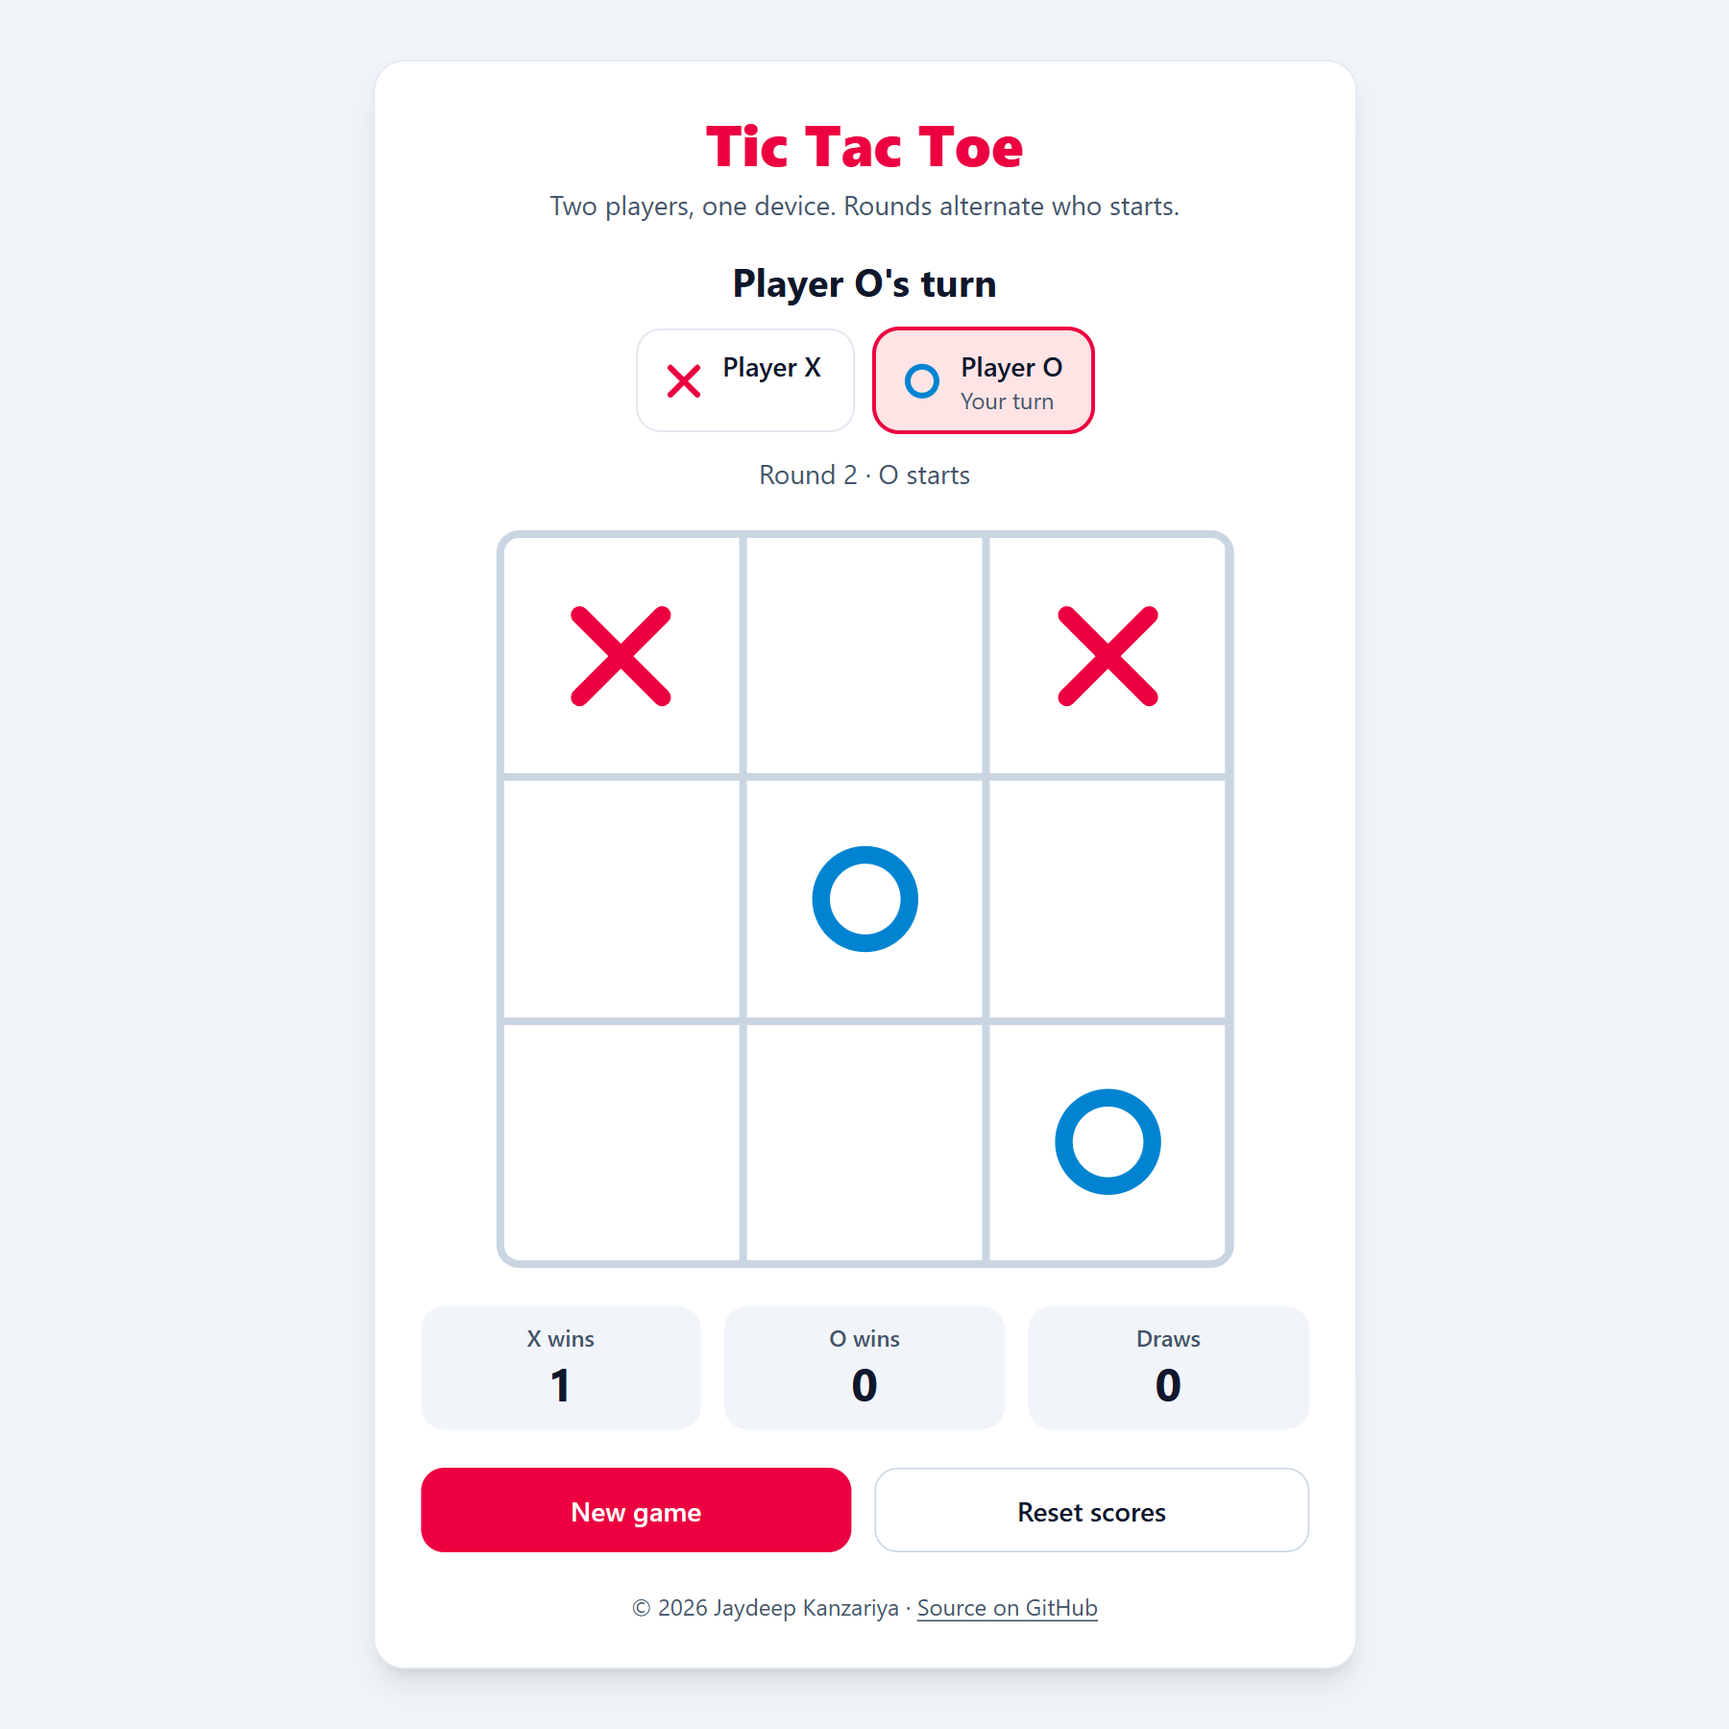
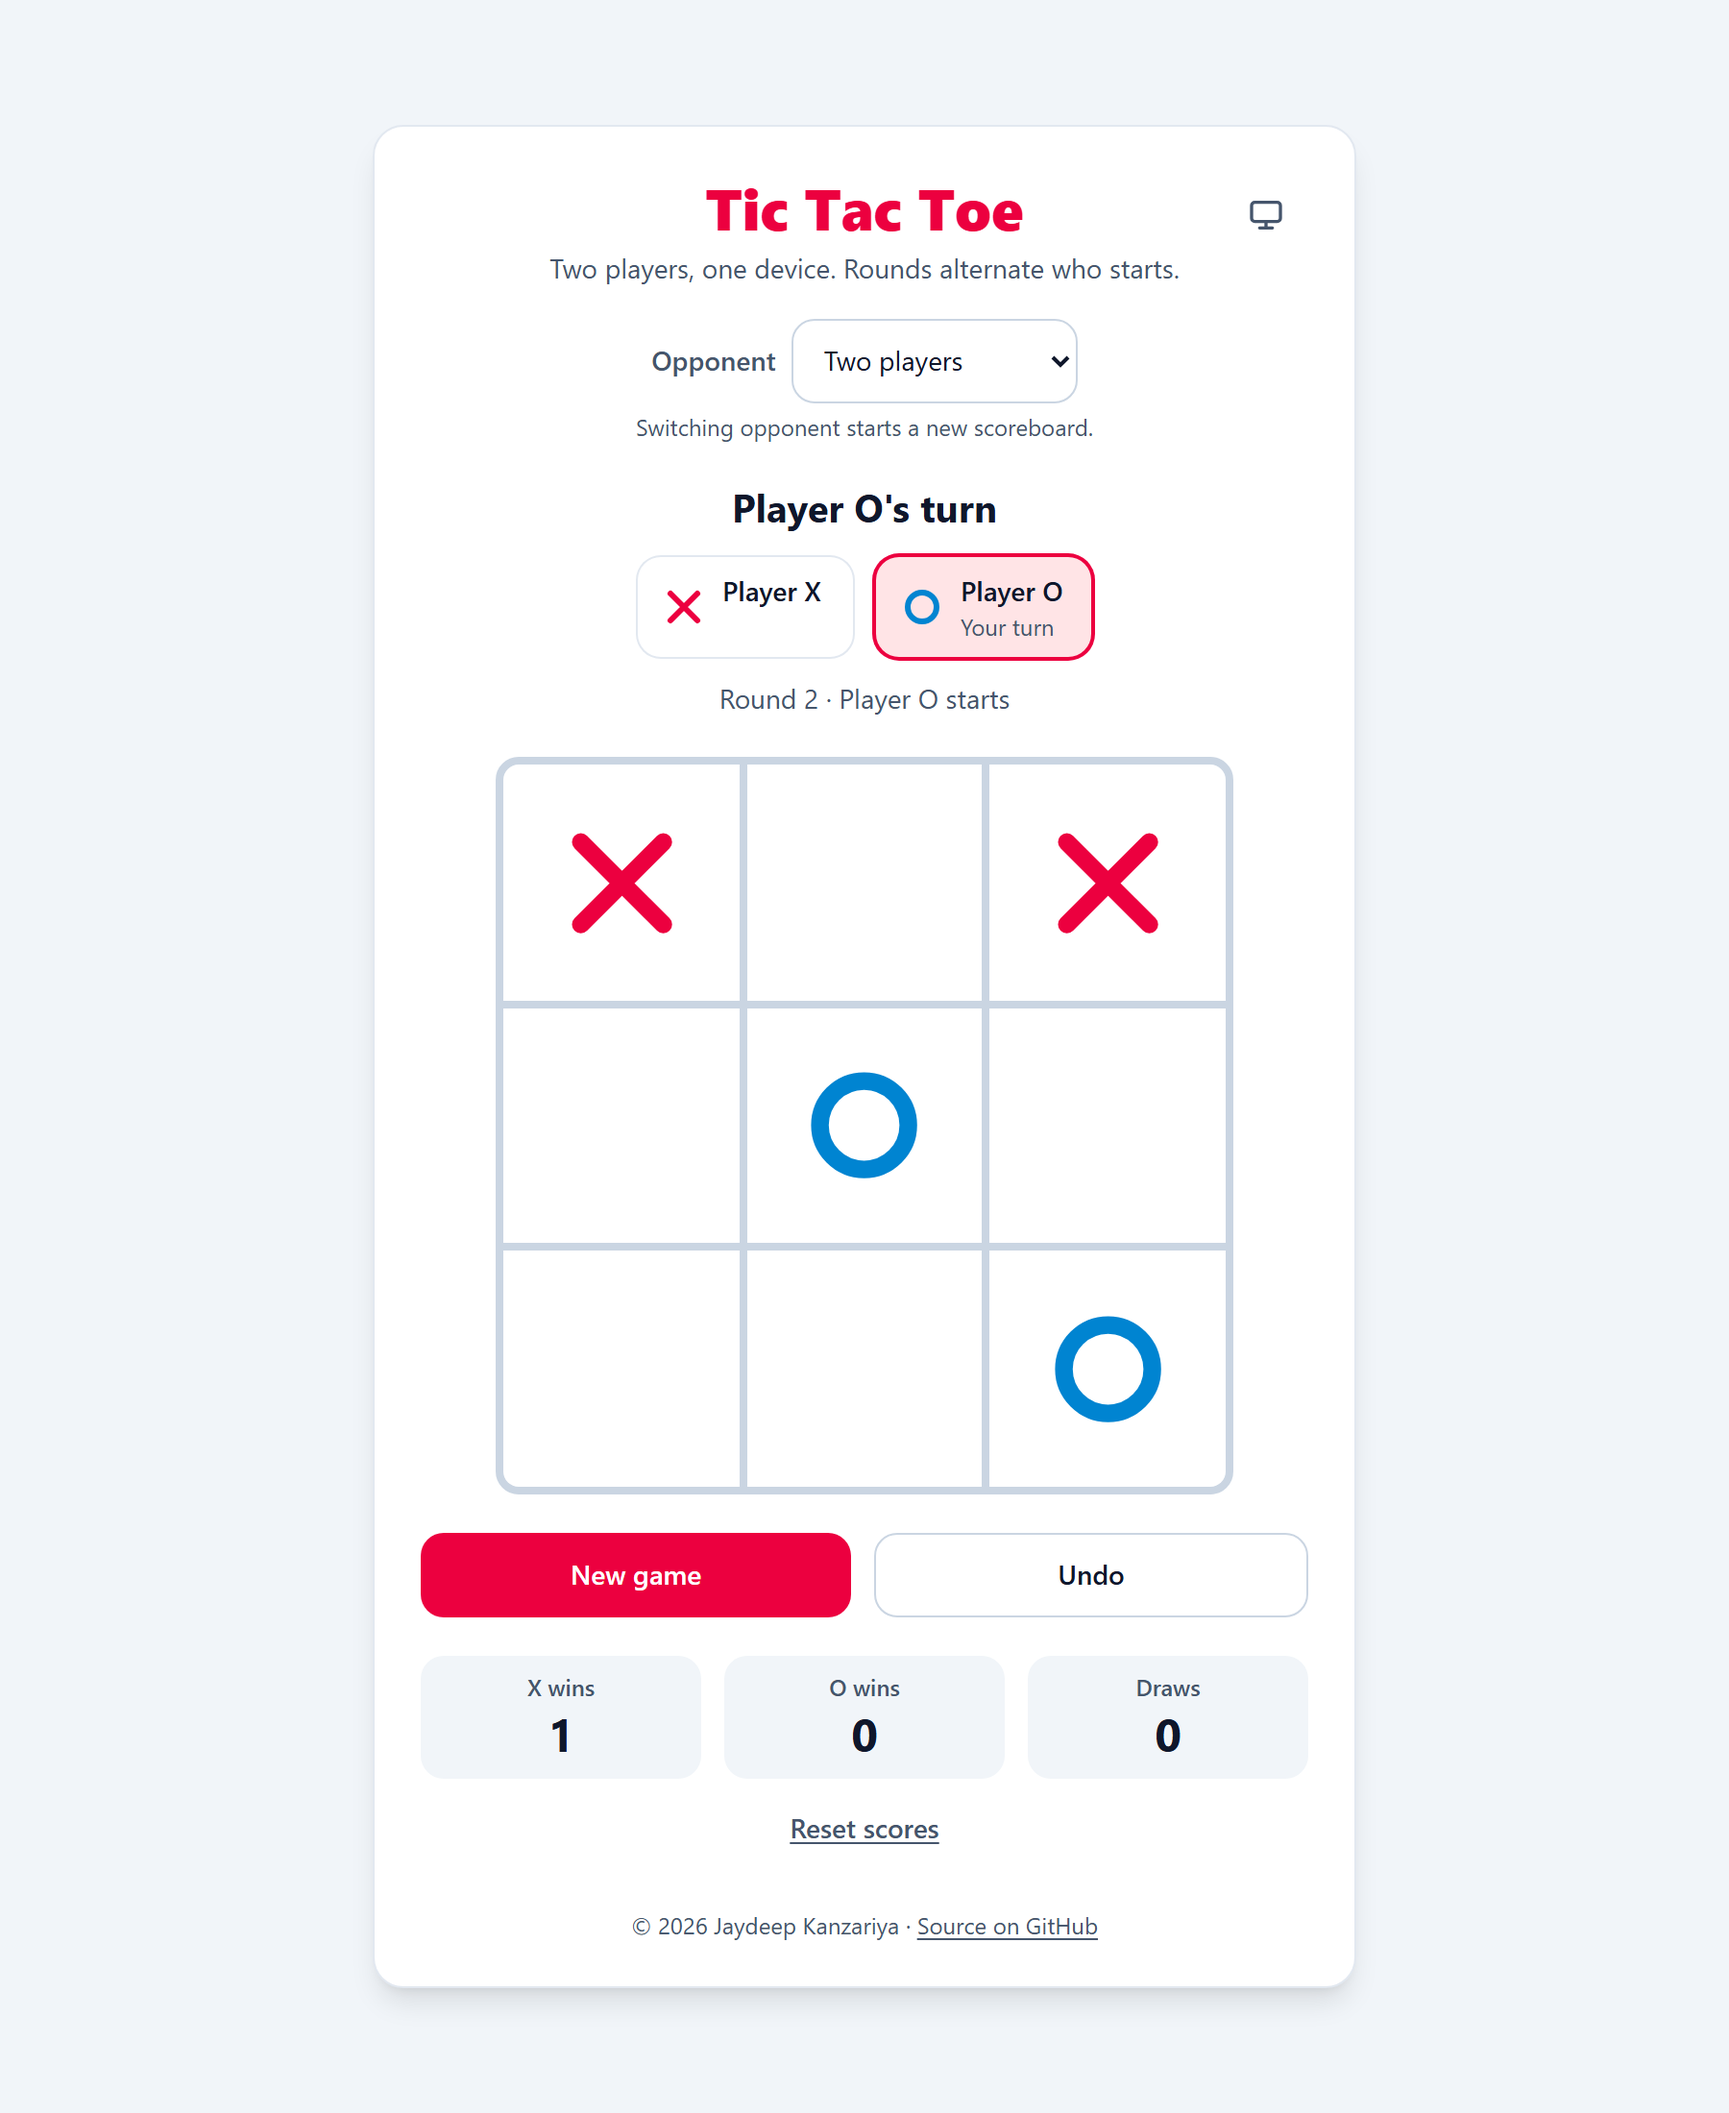
docs: document new features and refresh screenshots

Changed region(s): [[0.28, 0.0622, 0.7156, 0.56], [0.2178, 0.6222, 0.7778, 0.9644], [0.7156, 0.0933, 0.7467, 0.1244]]

diff --git a/README.md b/README.md
@@ -1,31 +1,35 @@
 # Tic Tac Toe
 
-A two-player (same device) Tic Tac Toe game built with React, TypeScript and Tailwind CSS v4. It has a scoreboard, alternating starting players and full keyboard support.
+A Tic Tac Toe game built with React, TypeScript and Tailwind CSS v4. Play a friend on the same device or the computer (easy or unbeatable), with a scoreboard, undo, light and dark themes and full keyboard support.
 
 Live: https://tic-tac-toe-psi-nine-94.vercel.app/
 
 ## Screenshots
-| Light | Dark |
+| Light, mid-game | Dark, X wins on the diagonal |
 |---|---|
 | ![Desktop, light mode, mid-game](docs/game-light.png) | ![Desktop, dark mode, X wins](docs/game-dark.png) |
 
-| Mobile (360 px), light | Mobile (360 px), dark |
+| Mobile (360 px), light, vs computer | Mobile (360 px), dark chosen with the toggle |
 |---|---|
-| ![Mobile, light mode, X wins](docs/mobile-light.png) | ![Mobile, dark mode, mid-game](docs/mobile-dark.png) |
+| ![Mobile, light mode, playing the computer](docs/mobile-light.png) | ![Mobile, dark mode, mid-game](docs/mobile-dark.png) |
 
 ## Features
 - 3x3 board of real buttons, X starts round 1, turns alternate
 - Winner and draw detection; a win on the 9th move counts as a win
-- Winning cells highlighted, other cells dimmed; neutral draw state
+- Winning cells highlighted with an animated strike-through line; other cells dimmed; neutral draw state
 - Status line (`aria-live`) and turn indicator chips with a text cue
-- Rounds: the starter alternates each round; New game keeps scores
-- Scoreboard (X wins, O wins, Draws) persisted in `localStorage` with validation
+- Rounds: the starter alternates each round; New game keeps the scores
+- Play against the computer: easy (random) or hard (unbeatable minimax)
+- Undo the last move (against the computer it takes back your move and the reply)
+- Scoreboard (X wins, O wins, Draws), round and opponent persisted in `localStorage` with validation
+- Reset scores asks for confirmation first
 - X and O differ by shape and colour (rose and sky)
-- Light and dark mode follow the system setting, built on semantic design tokens
-- Pop-in animation, disabled under `prefers-reduced-motion`
+- Light and dark mode: follows the system by default, with a System / Light / Dark toggle, built on semantic design tokens
+- Pop-in and line-draw animations, disabled under `prefers-reduced-motion`
+- Social preview image and Open Graph tags
 
 ## Tech stack
-React, Vite, TypeScript (strict), Tailwind CSS v4, Vitest for tests, oxlint for linting. No other runtime dependencies.
+React, Vite, TypeScript (strict), Tailwind CSS v4. Vitest and Testing Library for tests, oxlint for linting, GitHub Actions for CI. No other runtime dependencies.
 
 ## How to run
 ```
@@ -41,19 +45,26 @@ npm test
 src/
   main.tsx                     # StrictMode entry
   App.tsx                      # header, composes the game, footer
-  index.css                    # design tokens (light and dark), Tailwind theme, pop-in keyframes
+  App.test.tsx                 # component tests (Testing Library, jsdom)
+  index.css                    # design tokens (light and dark), Tailwind theme, keyframes
   types.ts                     # shared types
-  lib/game.ts                  # pure game logic
+  lib/game.ts                  # pure game logic, board replay, status text, win line geometry
+  lib/ai.ts                    # computer moves: random and minimax
   lib/gameReducer.ts           # pure reducer and initial state
   lib/storage.ts               # safe, validated localStorage access
+  lib/theme.ts                 # theme type and cycling
   lib/*.test.ts                # Vitest unit tests
-  hooks/useGame.ts             # reducer, derived values, persistence effect
+  hooks/useGame.ts             # reducer, derived values, persistence, computer turn
+  hooks/useTheme.ts            # applies and stores the chosen theme
   hooks/useRovingFocus.ts      # arrow-key navigation across cells
-  components/                  # Board, Square, Mark, StatusBar, ScoreBoard, GameControls
+  components/                  # Board, Square, Mark, WinLine, StatusBar, ScoreBoard,
+                               # GameControls, ResetScores, ModeSelect, ThemeToggle
+public/og-image.png            # social preview image
+.github/workflows/ci.yml       # lint, test and build on every push and pull request
 ```
 
 ## Theming
-Colours are semantic design tokens declared once in `src/index.css`: CSS variables on `:root` for light, overridden inside `@media (prefers-color-scheme: dark)`, and exposed to Tailwind through `@theme inline` (for example `bg-card`, `text-ink`, `text-ink-muted`, `border-grid`, `bg-accent`, `text-mark-x`). Components never use palette colours or `dark:` variants, so a theme or the accent colour is changed in that one file.
+Colours are semantic design tokens declared once in `src/index.css`. Each token is a CSS variable defined as `light-dark(<light>, <dark>)` on `:root` and exposed to Tailwind through `@theme inline` (for example `bg-card`, `text-ink`, `text-ink-muted`, `border-grid`, `bg-accent`, `text-mark-x`). By default the colour scheme follows the system. The toggle sets `data-theme="light"` or `"dark"` on `<html>` to force one, and a tiny inline script in `index.html` applies the saved choice before first paint, so there is no flash of the wrong theme. Components never use palette colours or `dark:` variants, so a theme or the accent colour is changed in that one file.
 
 | Token | Used for |
 |---|---|
@@ -64,26 +75,40 @@ Colours are semantic design tokens declared once in `src/index.css`: CSS variabl
 | `mark-x`, `mark-o`, `focus` | X and O marks, focus ring |
 
 ## How the game logic works
-State is one `useReducer` holding `board`, `scores` and `round`. Everything else (starter, current player, winner, draw, status text) is derived on each render. `calculateWinner` checks the 8 `WINNING_LINES` and returns the winner with the winning line, and it is checked before `isDraw`. The pure reducer ignores invalid `PLAY` actions and updates scores in the same transition that ends the game, so a round is counted exactly once, including under StrictMode.
+State is one `useReducer` holding the list of `moves`, the `scores`, the `round` and the `mode`. The board is not stored: it is replayed from the moves, alternating from the round's starter. Everything else (starter, current player, winner, draw, status text, whether undo is possible) is derived on each render. `calculateWinner` checks the 8 `WINNING_LINES` and returns the winner with the winning line, and it is checked before `isDraw`. The pure reducer ignores invalid `PLAY` actions and updates scores in the same transition that ends the game, so a round is counted exactly once, including under StrictMode. Undo is just dropping the last move.
+
+Against the computer the human is X and the computer is O. After each human move a short timer (cleaned up on unmount or change) asks `getComputerMove` for a reply and dispatches a normal `PLAY`. Easy picks a random empty cell. Hard runs minimax over the whole game tree, preferring quicker wins and slower losses, and picks randomly among equally good moves, so it never loses. The board ignores clicks while the computer is thinking.
 
 ## Testing
-`npm test` runs 44 Vitest unit tests for the pure logic: all 8 winning lines for X and O, draw and win-on-move-9, starter alternation, reducer rules (occupied cells, game over, scoring once, New game, Reset scores) and `localStorage` validation (corrupt JSON, negative values, unavailable storage). GitHub Actions (`.github/workflows/ci.yml`) runs lint, tests and build on every push and pull request.
+`npm test` runs 91 tests:
+- **Game logic:** all 8 winning lines for X and O, draw and win-on-move-9, starter alternation, board replay, undo rules, win line geometry and status text.
+- **Reducer:** occupied cells, game over, scoring once, undo, New game, Reset scores and switching opponent.
+- **Computer:** easy only plays empty cells, hard wins and blocks, and an exhaustive search shows hard never loses, whether the human or the computer starts.
+- **Storage:** corrupt JSON, negative values, unknown modes and unavailable `localStorage`.
+- **Component tests:** the whole app in jsdom, covering turns, win and draw, arrow-key focus, New game, undo, the reset confirmation and focus return, the computer replying, the theme toggle and persistence across reloads.
+
+GitHub Actions (`.github/workflows/ci.yml`) runs lint, tests and build on every push and pull request.
 
 ## Keyboard controls
 - `Tab` moves focus onto the board (one cell is in the tab order)
 - Arrow keys move between cells; `Home` and `End` jump to the first and last cell
 - `Enter` or `Space` places a mark
 - `Tab` to the buttons, then `Enter` or `Space` to use them
+- `Escape` cancels the reset confirmation
 
 ## Decisions
 - After New game, focus stays on the button (simpler, and focus is never lost).
-- Reset scores uses `aria-disabled` instead of `disabled`, so focus is not lost when it becomes inactive after a click.
-- On reload, scores and round persist; the board starts empty.
+- Undo and Reset scores use `aria-disabled` instead of `disabled`, so focus is not lost when they become inactive after a click.
+- Reset scores opens an inline confirmation with Cancel focused, and focus returns to the Reset button afterwards.
+- On reload, scores, round and opponent persist; the board starts empty.
+- Switching opponent starts a new scoreboard, because mixed scores would not mean much.
+- Undo is not available once a round has finished, so scores always match the board.
+- Against the computer the human is always X, so in even rounds the computer moves first.
 - Arrow keys do not wrap around the board edges.
 - The Vite scaffold uses `oxlint` for linting, so I kept it instead of adding ESLint.
-- The board is capped at `max-w-sm` so the whole card fits on a typical laptop screen.
-- Dark mode follows the system setting only, with no manual toggle.
-- Undo and a computer player were not added.
+- The board is capped at `max-w-sm` so the card fits on a typical laptop screen.
+- The theme toggle cycles System, Light, Dark. The `theme-color` meta tag follows the system setting only.
+- Tests use Testing Library in jsdom rather than a real browser runner such as Playwright, to keep CI fast and free of browser downloads.
 
 ## Deploy on Vercel
 | Setting | Value |
@@ -96,3 +121,6 @@ State is one `useReducer` holding `board`, `scores` and `round`. Everything else
 | Node.js version | latest LTS |
 
 No environment variables are needed.
+
+## License
+MIT. See [LICENSE](LICENSE).
